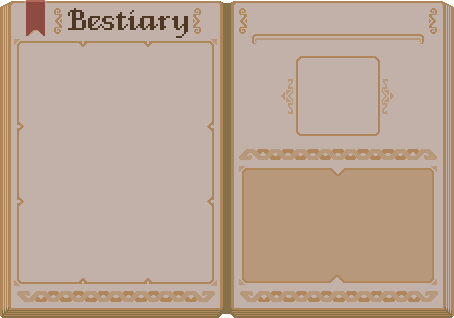
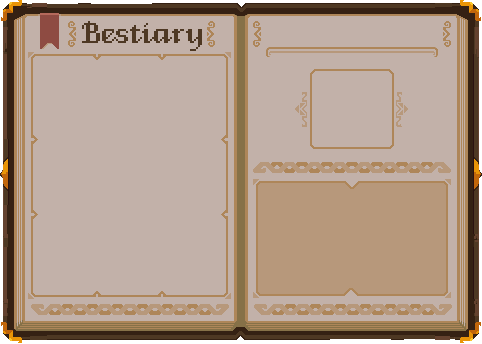
dodge triggers thorns, small ui cleanups, smooth out chaos hp scaling

diff --git a/src/combat/collisions.rs b/src/combat/collisions.rs
@@ -1137,57 +1137,55 @@ fn check_mob_to_player_collisions(
                 }
             }
             let mut rng = rand::thread_rng();
-            if rng.gen_ratio(dodge.0.try_into().unwrap_or(0), 100) && !in_i_frame.contains(e1) {
+            let already_iframed = in_i_frame.contains(e1);
+            let dodged = !already_iframed
+                && rng.gen_ratio(dodge.0.try_into().unwrap_or(0), 100);
+            if dodged {
                 dodge_event.send(DodgeEvent { entity: e1 });
-                commands
-                    .entity(e1)
-                    .insert(InvincibilityTimer(Timer::from_seconds(
-                        i_frames.0,
-                        TimerMode::Once,
-                    )));
-                continue;
-            }
-            let mut hit_successful = true;
-            if let Some(ref mut parry) = parry_option {
-                if parry.active && !parry.success {
-                    parry_events.send(ParrySuccessEvent(e2));
-                    hit_successful = false;
-                    parry.success = true;
+            } else {
+                let mut hit_successful = true;
+                if let Some(ref mut parry) = parry_option {
+                    if parry.active && !parry.success {
+                        parry_events.send(ParrySuccessEvent(e2));
+                        hit_successful = false;
+                        parry.success = true;
 
-                    commands
-                        .entity(e1)
-                        .insert(InvincibilityTimer(Timer::from_seconds(
-                            i_frames.0,
-                            TimerMode::Once,
-                        )))
-                        .insert(PlayerAnimation::ParryHit);
+                        commands
+                            .entity(e1)
+                            .insert(InvincibilityTimer(Timer::from_seconds(
+                                i_frames.0,
+                                TimerMode::Once,
+                            )))
+                            .insert(PlayerAnimation::ParryHit);
 
-                    commands.entity(e2).insert(Parried {
-                        timer: Timer::from_seconds(0.75, TimerMode::Once),
-                        kb_applied: false,
+                        commands.entity(e2).insert(Parried {
+                            timer: Timer::from_seconds(0.75, TimerMode::Once),
+                            kb_applied: false,
+                        });
+                    }
+                }
+                if hit_successful {
+                    hit_event.send(HitEvent {
+                        hit_by_pet: None,
+                        hit_entity: e1,
+                        damage: defence.apply_to_damage(attack.0),
+                        dir: delta.normalize_or_zero().truncate(),
+                        hit_with_melee: None,
+                        hit_with_projectile: None,
+                        ignore_tool: false,
+                        hit_by_mob: Some(is_attacking.unwrap().0.clone()),
+                        was_crit: false,
+                        was_overcrit: false,
+                        from_heirloom_effect: None,
+                        from_active_skill: false,
                     });
                 }
-            }
-            if hit_successful {
-                hit_event.send(HitEvent {
-                    hit_by_pet: None,
-                    hit_entity: e1,
-                    damage: defence.apply_to_damage(attack.0),
-                    dir: delta.normalize_or_zero().truncate(),
-                    hit_with_melee: None,
-                    hit_with_projectile: None,
-                    ignore_tool: false,
-                    hit_by_mob: Some(is_attacking.unwrap().0.clone()),
-                    was_crit: false,
-                    was_overcrit: false,
-                    from_heirloom_effect: None,
-                    from_active_skill: false,
-                });
             }
             // hit back to attacker if we have Thorns
             // Thorns deals a percentage of PLAYER's damage back to the attacker
             // e.g., 100 thorns = 100% of player damage reflected
-            if thorns.0 > 0 && in_i_frame.get(e1).is_err() {
+            // Still procs on a successful dodge (before i-frames are applied below).
+            if thorns.0 > 0 && !already_iframed {
                 let thorns_damage =
                     f32::ceil(player_attack.0 as f32 * thorns.0 as f32 / 100.) as i32;
 
@@ -1220,7 +1218,7 @@ fn check_mob_to_player_collisions(
             // ThornsSpikes heirloom: spawn radial spikes around the player.
             // Shared with the self-damage path (negative regen, Porkipine pet, etc.)
             // via `combat::trigger_thorns_spikes` so the spawn logic lives in one place.
-            if in_i_frame.get(e1).is_err() {
+            if !already_iframed {
                 crate::combat::trigger_thorns_spikes(
                     player_e,
                     player_skills,
@@ -1229,6 +1227,16 @@ fn check_mob_to_player_collisions(
                     &mut ranged_attack_event,
                     &mut trigger_counts,
                 );
+            }
+
+            if dodged {
+                commands
+                    .entity(e1)
+                    .insert(InvincibilityTimer(Timer::from_seconds(
+                        i_frames.0,
+                        TimerMode::Once,
+                    )));
+                continue;
             }
         }
     }

diff --git a/src/ui/beastiary_browser_ui.rs b/src/ui/beastiary_browser_ui.rs
@@ -62,8 +62,8 @@ const OVERLAY_Z: f32 = 95.;
 const PANEL_Z: f32 = 96.;
 const CONTENT_Z: f32 = 97.;
 
-const PANEL_W: f32 = 454.;
-const PANEL_H: f32 = 318.;
+const PANEL_W: f32 = 482.;
+const PANEL_H: f32 = 344.;
 const GRID_COLS: usize = 3;
 const CARDS_PER_PAGE: usize = GRID_COLS * GRID_COLS;
 /// Card slot background native size (`BestiaryCardBackground.png`).
@@ -82,6 +82,11 @@ const GRID_CENTER_X: f32 = -112.;
 const GRID_TOP_Y: f32 = 74.;
 const NAV_BTNS_Y: f32 = -164.;
 const NAV_BTN_GAP: f32 = 24.;
+const DONE_BTN_W: f32 = 60.;
+const DONE_BTN_H: f32 = 18.;
+/// Bottom-right inset on the book panel art (`Bestiary.png`).
+const DONE_BTN_OFFSET_X: f32 = 56.;
+const DONE_BTN_INSET_Y: f32 = 8.;
 const DETAIL_CENTER_X: f32 = 110.;
 const DETAIL_TOP_Y: f32 = 0.;
 const DETAIL_WIDTH: f32 = 170.;
@@ -182,17 +187,22 @@ pub fn setup_beastiary_browser_ui(
         Name::new("Beastiary Browser Next"),
     ));
 
-    // Done button below the book panel.
-    let button_y = -PANEL_H * 0.5 - 24.;
+    // Done button — bottom-right on the book panel, above the panel art layer.
+    let button_x = PANEL_W * 0.5 - DONE_BTN_W * 0.5 + DONE_BTN_OFFSET_X;
+    let button_y = -PANEL_H * 0.5 + DONE_BTN_H * 0.5 + DONE_BTN_INSET_Y;
     let done_entity = commands
         .spawn((
             SpriteBundle {
                 texture: graphics.get_ui_element_texture(UIElement::MenuButton),
                 sprite: Sprite {
-                    custom_size: Some(Vec2::new(72., 18.)),
+                    custom_size: Some(Vec2::new(DONE_BTN_W, DONE_BTN_H)),
                     ..Default::default()
                 },
-                transform: Transform::from_translation(Vec3::new(0., button_y, CONTENT_Z)),
+                transform: Transform::from_translation(Vec3::new(
+                    button_x,
+                    button_y,
+                    CONTENT_Z + 1.,
+                )),
                 ..Default::default()
             },
             RenderLayers::from_layers(&[3]),

diff --git a/src/ui/player_hud.rs b/src/ui/player_hud.rs
@@ -18,6 +18,7 @@ use super::{
     ui_helpers::{
         spawn_hud_label_badge, spawn_keybind_badge, Z_DEPTH_HUD_ACTIVE_SKILLS,
         Z_DEPTH_HUD_HEIRLOOM_ICONS, Z_DEPTH_HUD_HEIRLOOM_ICONS_FOREGROUND,
+        Z_DEPTH_HUD_ORB_TRACKERS_FOREGROUND,
     },
     InventorySlotState, InventorySlotType, InventoryState, InventoryUI, UIElement, UIState,
     CURRENCY_BACKGROUND_SIZE, HUD_ACTION_ROW_Y_FROM_BOTTOM, HUD_ERA_TIMER_ENDLESS_WIDTH,
@@ -356,10 +357,12 @@ pub fn setup_bars_ui(
                 custom_size: Some(HUD_FRAME_SIZE),
                 ..Default::default()
             },
-            // Z below `Z_DEPTH_HUD_ACTIVE_SKILLS` (4.0) so the hotbar / skill slot
-            // backgrounds and their icons render on top of the frame. The HP/mana fill
-            // children below add small local Z offsets to stack on top of the frame.
-            transform: Transform::from_translation(Vec3::new(0., row_y, 1.)),
+            // Above heirloom pick overlays (z ≈ 52–58) so orb tracker tooltips stay usable.
+            transform: Transform::from_translation(Vec3::new(
+                0.,
+                row_y,
+                Z_DEPTH_HUD_ORB_TRACKERS_FOREGROUND,
+            )),
             ..Default::default()
         })
         .insert(Name::new("HUD FRAME"))
@@ -2037,7 +2040,7 @@ fn spawn_mana_tracker_tooltip(
     let tooltip_pos = Vec3::new(
         anchor_pos.x,
         anchor_pos.y + HUD_FILL_PIXEL_SIZE.y * 0.5 + size.y * 0.5 + 6.,
-        anchor_pos.z + 10.,
+        Z_DEPTH_HUD_ORB_TRACKERS_FOREGROUND,
     );
 
     let root = commands
@@ -2230,7 +2233,7 @@ fn spawn_health_tracker_tooltip(
     let tooltip_pos = Vec3::new(
         anchor_pos.x,
         anchor_pos.y + HUD_FILL_PIXEL_SIZE.y * 0.5 + size.y * 0.5 + 6.,
-        anchor_pos.z + 10.,
+        Z_DEPTH_HUD_ORB_TRACKERS_FOREGROUND,
     );
 
     let root = commands

diff --git a/src/chaos.rs b/src/chaos.rs
@@ -51,14 +51,15 @@ impl ChaosTracker {
 
 /// Max HP multiplier from total chaos (global chaos tracker + infinite mode bonus),
 /// matching `juice_up_spawned_mobs_per_day` in `crate::enemy`.
+///
+/// Smooth blend: slightly above old soft scaling early, crosses old hard scaling
+/// around chaos 19–20, then continues above hard linear beyond that.
 pub fn hp_multiplier_for_total_chaos(total_chaos: f32) -> f32 {
     let chaos_factor = 1. + total_chaos;
-    let early_cutoff = 20.0_f32;
-    if chaos_factor <= early_cutoff {
-        chaos_factor.powf(0.7)
-    } else {
-        1.1 * chaos_factor
-    }
+    let blend = (total_chaos / 18.).clamp(0., 1.);
+    let early = chaos_factor.powf(0.74);
+    let late = 1.08 * chaos_factor.powf(1.02);
+    (1. - blend) * early + blend * late
 }
 
 pub struct IncreaseChaosEvent {

diff --git a/src/ui/ui_helpers.rs b/src/ui/ui_helpers.rs
@@ -84,6 +84,8 @@ pub const Z_DEPTH_HEIRLOOM_SKILL_CHOICE_OVERLAY: f32 = 52.0;
 pub const Z_DEPTH_HEIRLOOM_SKILL_CHOICE_CONTENT: f32 = 54.0;
 /// Reroll/banish count labels (slightly in front of sibling UI on the same screen).
 pub const Z_DEPTH_HEIRLOOM_SKILL_CHOICE_FOREGROUND: f32 = 58.0;
+/// HP/mana orb HUD + tracker tooltips (above heirloom pick overlays, z ≈ 52–58).
+pub const Z_DEPTH_HUD_ORB_TRACKERS_FOREGROUND: f32 = 64.0;
 /// HUD heirloom icons during normal play: above the XP/currency row, below inventory/shrine overlays (z ≈ 9+).
 pub const Z_DEPTH_HUD_HEIRLOOM_ICONS: f32 = 8.0;
 /// HUD heirloom icons when they must render above full-screen overlays (e.g. game over at z ≈ 58).

diff --git a/src/world/dungeon_room.rs b/src/world/dungeon_room.rs
@@ -659,7 +659,7 @@ fn update_exit_reward_preview(
         return;
     }
 
-    const CELL_W: f32 = 26.;
+    const CELL_W: f32 = 38.;
     const PANEL_PAD: f32 = 8.;
     const PANEL_H: f32 = 30.;
     let panel_w = entries.len() as f32 * CELL_W + PANEL_PAD * 2.;
